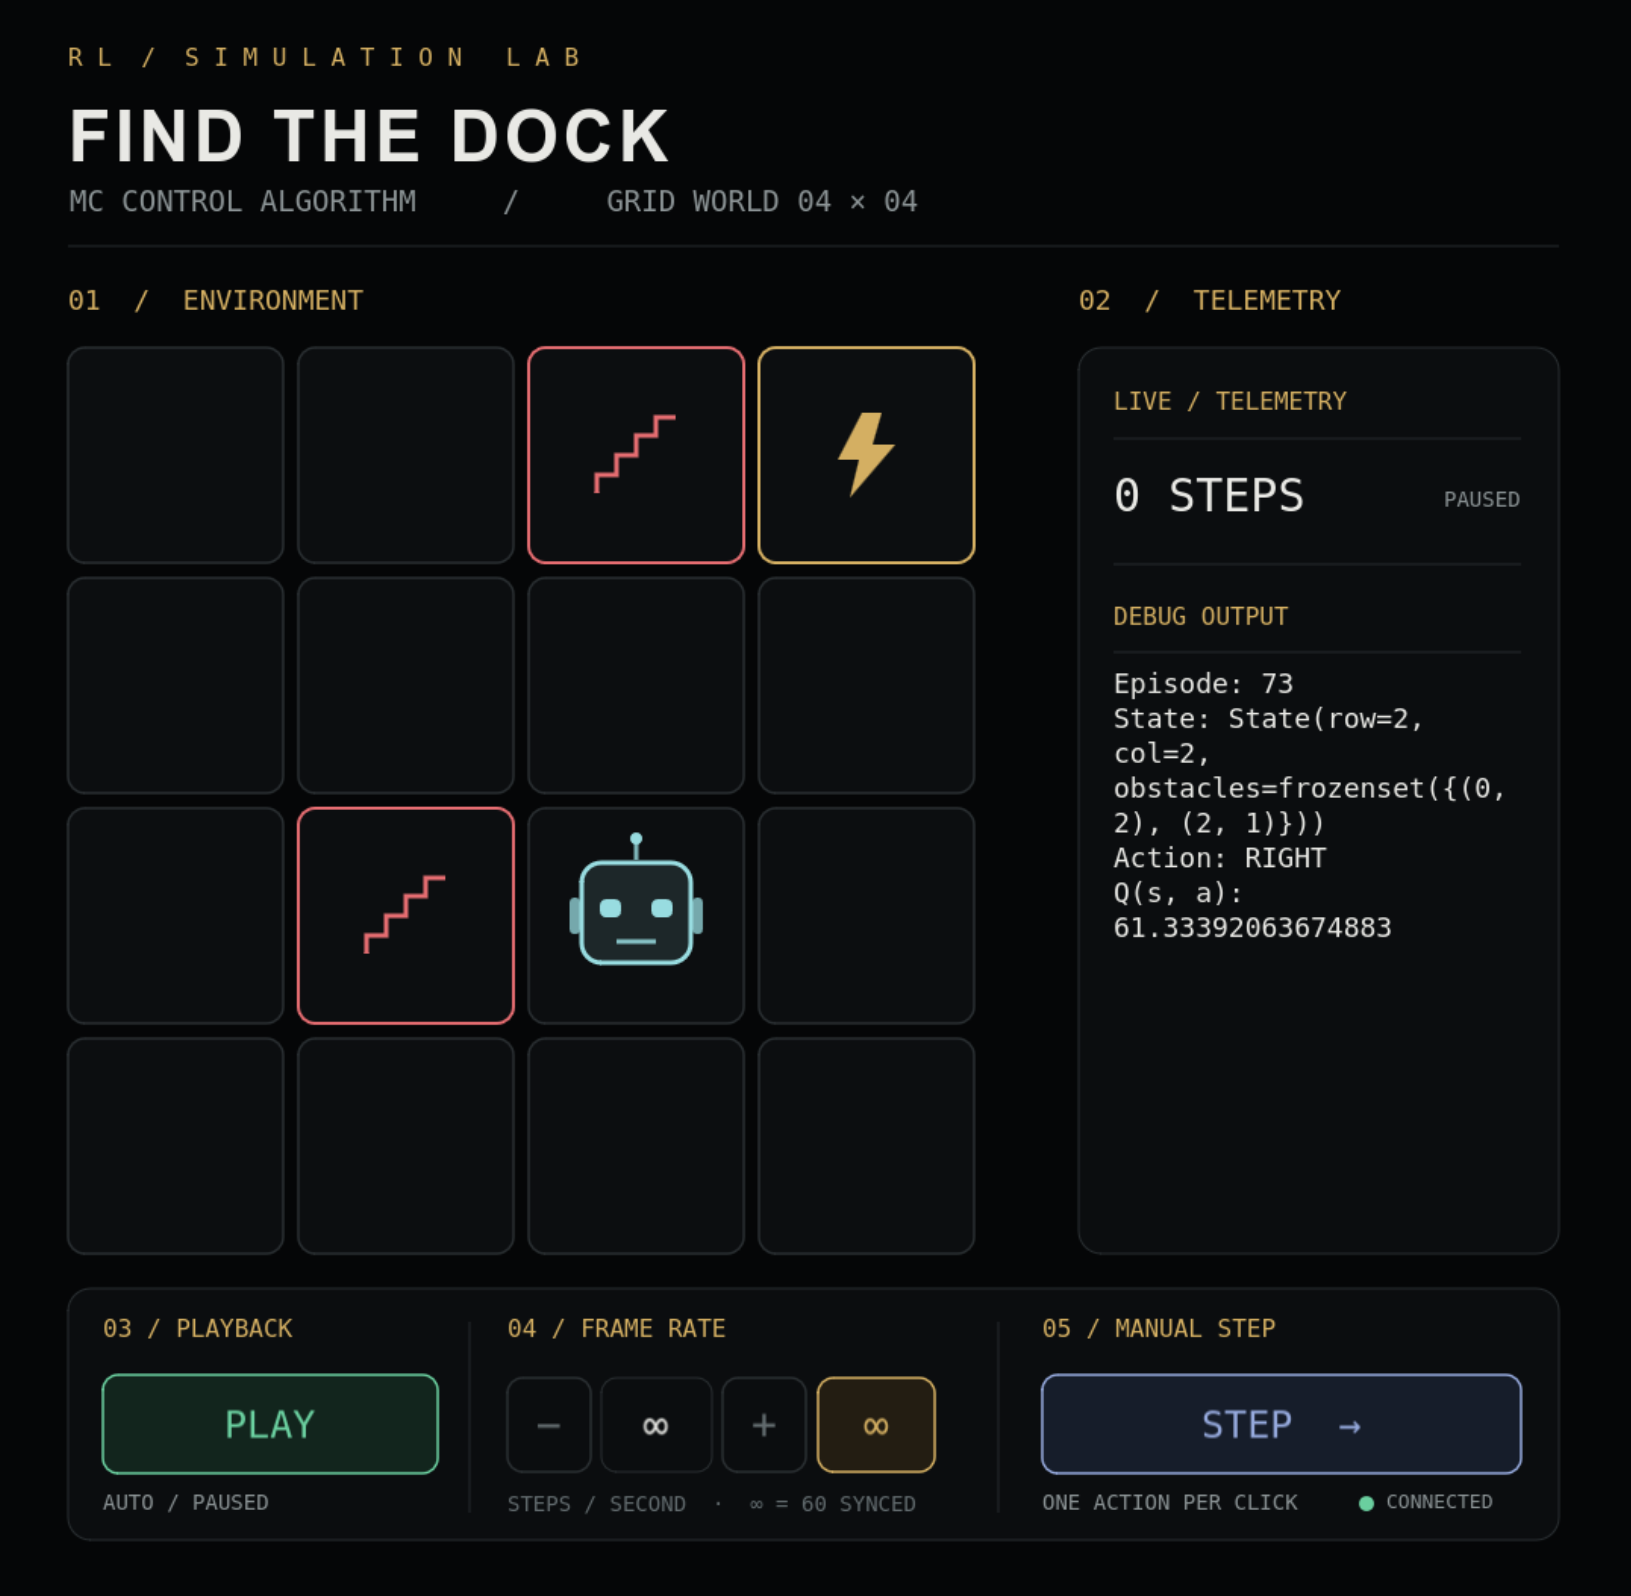
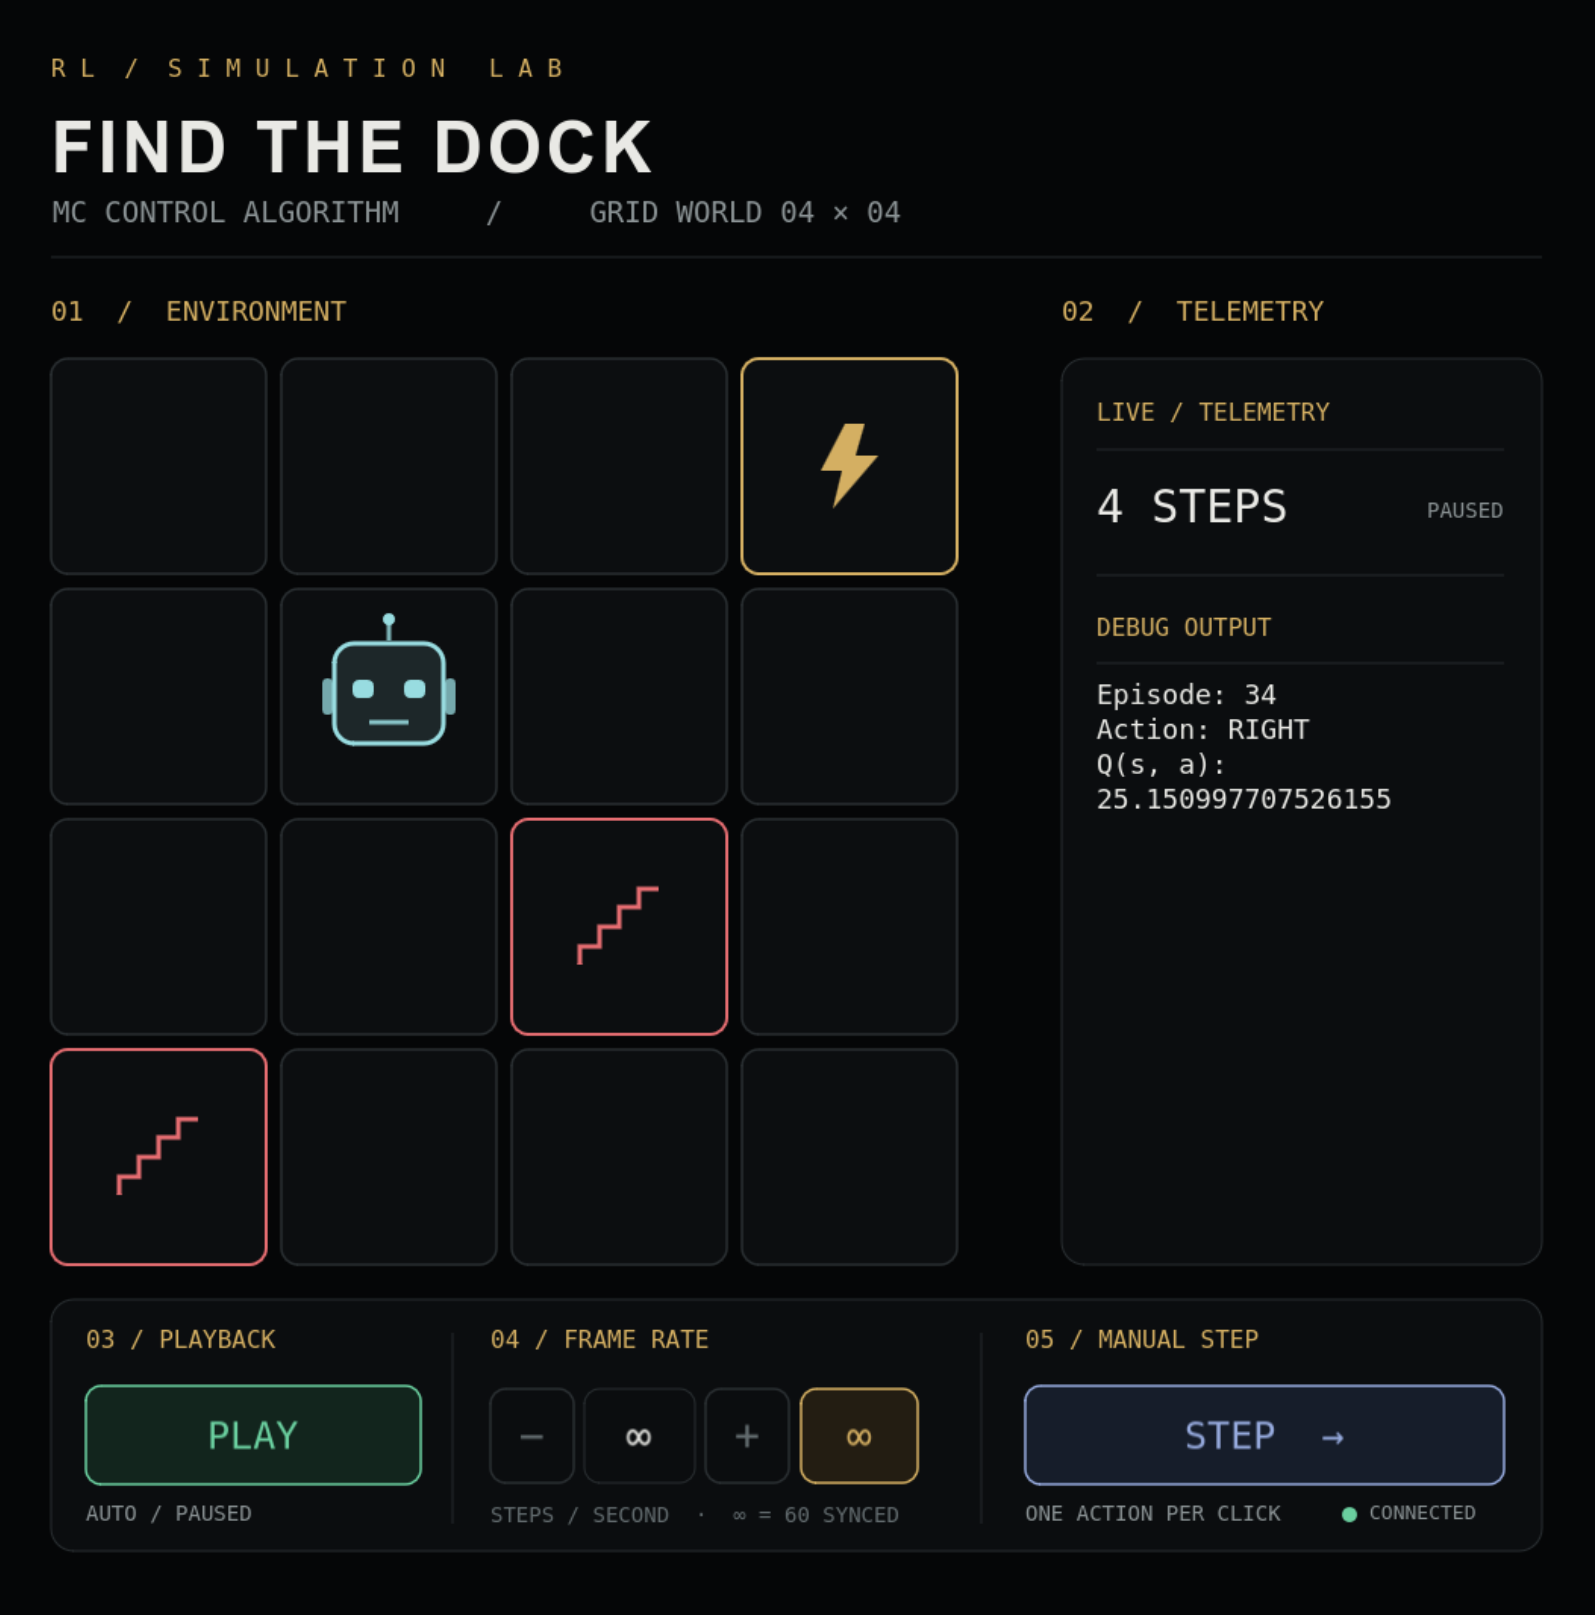
Updated example and screenshot

diff --git a/examples/mc_control.py b/examples/mc_control.py
@@ -45,7 +45,7 @@ def action(s: State) -> Action:
     return max(Action.all(), key=lambda a: qvalue.get((s, a), 0.0))
 
 
-def main():
+def train():
     environment = Environment(title="MC Control algorithm")
 
     max_episodes = 1000
@@ -61,7 +61,7 @@ def main():
             a = action(s)
 
             environment.debug_print(
-                f"Episode: {ep_no + 1}\nState: {s}\nAction: {a.name}\nQ(s, a): {qvalue.get((s, a), 0)}"
+                f"Episode: {ep_no + 1}\nAction: {a.name}\nQ(s, a): {qvalue.get((s, a), 0)}"
             )
 
             # E(s, a) -> (s', r)
@@ -77,6 +77,6 @@ def main():
 
 if __name__ == "__main__":
     try:
-        main()
+        train()
     except Exception as e:
         print(e)
